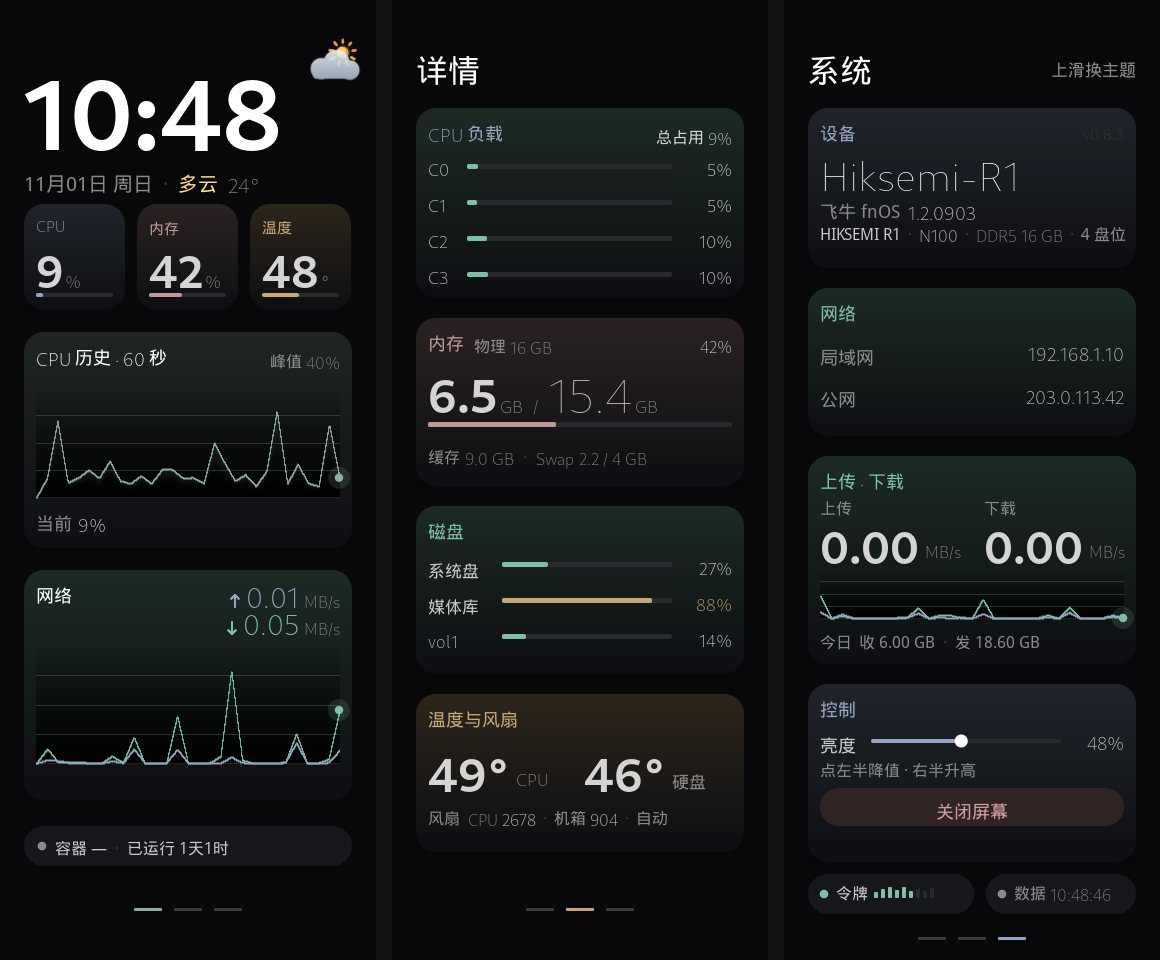
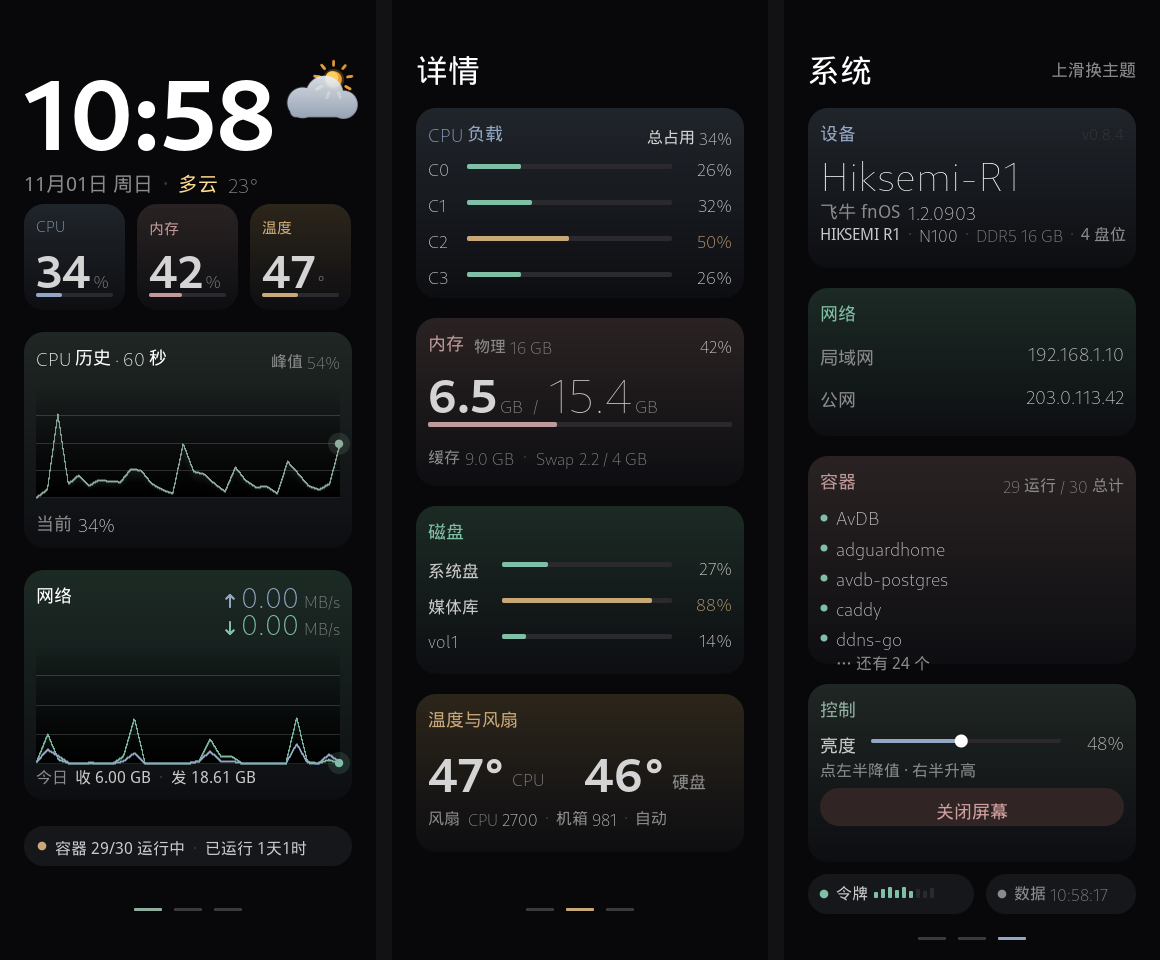
feat(ui): 系统页换容器卡，天气图标 r=46，三页配色不撞色
洋哥 2026-11-01 四条反馈。

- 系统页「上传·下载」卡与首页网络卡重复，删除；今日收发并入
  首页网络卡底部。腾出的 200px 换成「容器」卡：右上「N 运行 /
  M 总计」+ 运行中容器名列表（Docker API Names，排序、最多 5 个，
  超出报「… 还有 N 个」）。
- docker.go 扩展：取 Names 并排序进快照（不排序则 API 顺序不稳，
  屏幕每 60s 跳一次顺序像容器在重启）；快照深拷贝防 -race。
- 天气图标 r 32→46（直径 92）：100px 时钟占 x24..264，图标仅剩
  右侧 102px，直径上限约 100 —— 46 已接近硬上限。
- 配色：详情页 CPU mint→slate（原与磁盘撞色），四张变
  slate/rose/mint/sand；系统页控制 slate→sage。相邻与同页均不重复。
- README 已知限制补充：盘位数来自机型映射表（Linux 无通用接口），
  其余字段均为系统实读、读不到整项省略。

diff --git a/internal/ui/pages_m3.go b/internal/ui/pages_m3.go
@@ -215,11 +215,12 @@ func (p *EnvPage) Draw(c *Canvas, d *DrawCtx) {
 		DrawPartsTop(c, fs, DPadX, envDateY, FzDate, parts)
 
 		// 天气图标（右上，昼夜由 isNight 内部判断）。
-		// 2026-10-31 洋哥：图标放大 r 21→32。中心 (335,62)→(332,64)：
-		// 右沿 332+32=364 距屏右 12px、上沿 32、下沿 96 不压日期行（174）、
-		// 左沿不压时钟墨迹（"00:22" 右沿约 264）。构图全部按 r 比例缩放，
-		// 云掩码 s≈43 远小于上限 256（设计时就留的余量）。
-		DrawWeatherIcon(c, DPadX+DCardW-20, 64, 32, kind, 2.856)
+		// 2026-11-01 洋哥：还是太小 → r 32→46（面积 2 倍）。
+		// 位置受时钟制约：100px 的「10:48」占 x 24..264，图标只能用右侧
+		// x 270..372 这 102px，直径上限约 100px —— 46 已经接近这条硬上限。
+		// 中心 (318,96)：圆右沿 364、云体右沿约 368（距屏右 8px）、
+		// 上沿 50、下沿 142（日期行 174 之上），左沿 272 不压时钟。
+		DrawWeatherIcon(c, 318, 96, 46, kind, 2.856)
 	}
 
 	// ---------------- 三张指标小卡 ----------------
@@ -328,6 +329,16 @@ func (p *EnvPage) Draw(c *Canvas, d *DrawCtx) {
 		// （标题 601..618、上行 600..618），不是"标题一行、速率另起一行"。
 		drawRateRow(c, fs, DPadX+DCardW-DPad, envNetY+14, up, colSlate, true)
 		drawRateRow(c, fs, DPadX+DCardW-DPad, envNetY+41, dn, colMint, false)
+
+		// 今日累计收发：从系统页「上传·下载」卡搬来（洋哥 2026-11-01 ——
+		// 那张卡与这张讲的是同一件事，合并后系统页腾出一整张卡的位置）。
+		// 曲线底 796，卡底 826：这一行落在 798..814，正好卡在中间。
+		DrawPartsTop(c, fs, DPadX+DPad, envNetY+196, FzMeta, []TPart{
+			{S: "今日", Col: colDim},
+			{S: "收 " + fmtBytes(m.NetRxToday), Col: colSub, Gap: 7},
+			{S: "·", Col: colTab, Gap: 8},
+			{S: "发 " + fmtBytes(m.NetTxToday), Col: colSub, Gap: 8},
+		})
 	}
 
 	// ---------------- 底部药丸（容器 / 运行时长）----------------
@@ -415,7 +426,11 @@ func (p *DetailPage) Draw(c *Canvas, d *DrawCtx) {
 	// 首页只留「趋势」，每核分布这种细节归详情页：四行、条长 205px，
 	// 两个核差 10% 时长度差 20px，一眼可辨。
 	if c.ClipVisible(DPadX, dtCpuY, DCardW, dtCpuH) {
-		DCardBox(c, d, DPadX, dtCpuY, DCardW, dtCpuH, colMint)
+		// 卡色 slate（洋哥 2026-11-01：相邻卡片不能同色）。原来是 mint，
+		// 与第三张「磁盘」撞色 —— 虽然不相邻，但同页重复会让"每卡一色"
+		// 失去指代作用。改 slate 后四张全不同：slate/rose/mint/sand，
+		// 而且 CPU=slate 与环境页那张 CPU 小卡同色，语义更顺。
+		DCardBox(c, d, DPadX, dtCpuY, DCardW, dtCpuH, colSlate)
 		DCardTitle(c, fs, DPadX, dtCpuY+13, "CPU 负载", colSlate)
 		// 右上角原来是 load average（1m · 5m）—— 洋哥 2026-11-01 让删掉。
 		// 那个数对服务器有意义，但对墙上这块屏不直观：0.31 是好是坏，
@@ -625,7 +640,7 @@ func (p *SysPage) PageName() string { return "系统" }
 const (
 	syDevY, syDevH   = 112, 152
 	syNetY, syNetH   = 292, 140
-	sySpdY, sySpdH   = 460, 200
+	syCtrY, syCtrH   = 460, 200
 	syCtrlY, syCtrlH = 688, 170
 	syPillY          = 874
 )
@@ -638,7 +653,7 @@ func (p *SysPage) DataRects(d *DrawCtx) []Rect {
 	return []Rect{
 		{DPadX - 6, syDevY - 6, DCardW + 12, syDevH + 12},
 		{DPadX - 6, syNetY - 6, DCardW + 12, syNetH + 12},
-		{DPadX - 6, sySpdY - 6, DCardW + 12, sySpdH + 12},
+		{DPadX - 6, syCtrY - 6, DCardW + 12, syCtrH + 12},
 		{DPadX - 6, syCtrlY - 6, DCardW + 12, syCtrlH + 12},
 		{DPadX - 6, syPillY - 6, DCardW + 12, 40 + 12},
 	}
@@ -649,7 +664,7 @@ func (p *SysPage) CardRects() []Rect {
 	return []Rect{
 		{DPadX, syDevY, DCardW, syDevH},
 		{DPadX, syNetY, DCardW, syNetH},
-		{DPadX, sySpdY, DCardW, sySpdH},
+		{DPadX, syCtrY, DCardW, syCtrH},
 		{DPadX, syCtrlY, DCardW, syCtrlH},
 		{DPadX, syPillY, DCardW, 40},
 	}
@@ -785,63 +800,52 @@ func (p *SysPage) Draw(c *Canvas, d *DrawCtx) {
 			[]TPart{{S: fitText(fs, pub, FzCard, 200), Col: pubCol, Latin: true}})
 	}
 
-	// ---------------- 上传 · 下载 ----------------
-	if c.ClipVisible(DPadX, sySpdY, DCardW, sySpdH) {
-		DCardBox(c, d, DPadX, sySpdY, DCardW, sySpdH, colMint)
-		DCardTitle(c, fs, DPadX, sySpdY+13, "上传 · 下载", colMint)
-		up := clamp(d.Ease("sy.up", m.NetSendMBps), 0, 1e9)
-		dn := clamp(d.Ease("sy.dn", m.NetRecvMBps), 0, 1e9)
+	// ---------------- 容器 ----------------
+	// 2026-11-01 洋哥：原「上传·下载」卡与首页网络卡讲的是同一件事，删掉；
+	// 今日收发已并入首页网络卡。这里换成容器列表 —— NAS 屏上「服务还在跑吗」
+	// 是高频问题，环境页只给了一个数字药丸，这里给名字。
+	if c.ClipVisible(DPadX, syCtrY, DCardW, syCtrH) {
+		DCardBox(c, d, DPadX, syCtrY, DCardW, syCtrH, colRose)
+		DCardTitle(c, fs, DPadX, syCtrY+13, "容器", colRose)
 
-		// 两列：左 上传、右 下载，各占半卡
-		DrawPartsTop(c, fs, DPadX+DPad, sySpdY+41, FzMeta,
-			[]TPart{{S: "上传", Col: colDim}})
-		uw := DrawPartsTop(c, fs, DPadX+DPad, sySpdY+72, FzNum, []TPart{
-			{S: fmtMBps(up), Col: colData, Latin: true, Bold: true},
-		})
-		DrawPartsTop(c, fs, DPadX+DPad+uw+6, sySpdY+86, FzMeta,
-			[]TPart{{S: "MB/s", Col: colDim, Latin: true}})
-
-		DrawPartsTop(c, fs, DPadX+176, sySpdY+41, FzMeta,
-			[]TPart{{S: "下载", Col: colDim}})
-		dw := DrawPartsTop(c, fs, DPadX+176, sySpdY+72, FzNum, []TPart{
-			{S: fmtMBps(dn), Col: colData, Latin: true, Bold: true},
-		})
-		DrawPartsTop(c, fs, DPadX+176+dw+6, sySpdY+86, FzMeta,
-			[]TPart{{S: "MB/s", Col: colDim, Latin: true}})
-
-		send := make([]float64, 0, len(m.NetHistory))
-		recv := make([]float64, 0, len(m.NetHistory))
-		scale := 0.1
-		for _, v := range m.NetHistory {
-			send = append(send, v[0])
-			recv = append(recv, v[1])
-			if v[0] > scale {
-				scale = v[0]
+		names := m.Containers
+		if m.ContainersRunning < 0 {
+			DMetaR(c, fs, DPadX+DCardW, syCtrY+16, "未接入 Docker", colDim)
+			DrawPartsTop(c, fs, DPadX+DPad, syCtrY+56, FzCard,
+				[]TPart{{S: "读不到 /var/run/docker.sock", Col: colDim}})
+		} else {
+			DMetaR(c, fs, DPadX+DCardW, syCtrY+16,
+				fmt.Sprintf("%d 运行 / %d 总计", m.ContainersRunning, m.ContainersTotal),
+				colDim)
+			if len(names) == 0 {
+				DrawPartsTop(c, fs, DPadX+DPad, syCtrY+56, FzCard,
+					[]TPart{{S: "没有运行中的容器", Col: colDim}})
 			}
-			if v[1] > scale {
-				scale = v[1]
+			// 每行 30：52 / 82 / 112 / 142 / 172，第五行墨迹底 185，卡底 200。
+			// 超过 5 个只报剩余数量 —— 一屏列 20 个容器没人读。
+			const maxRows = 5
+			for i, n := range names {
+				if i >= maxRows {
+					break
+				}
+				yInk := syCtrY + 52 + i*30
+				c.FillCircle(float64(DPadX+DPad+4), float64(yInk+6), 3.5, colMint)
+				DrawPartsTop(c, fs, DPadX+DPad+16, yInk, FzCard,
+					[]TPart{{S: fitText(fs, n, FzCard, DCardW-2*DPad-16), Col: colSub, Latin: true}})
+			}
+			if len(names) > maxRows {
+				DrawPartsTop(c, fs, DPadX+DPad+16, syCtrY+52+maxRows*30-6, FzMeta,
+					[]TPart{{S: fmt.Sprintf("… 还有 %d 个", len(names)-maxRows), Col: colDim}})
 			}
 		}
-		scale *= 1.15
-		// 曲线框 577..626（h=50）：三条网格实测 589 / 602 / 614.5，等距 12.75。
-		// 上一版 h=46 时网格间距 11.5，三条线整体偏上 3px —— 网格间距=框高/4，
-		// 所以框高必须按"网格间距 × 4"反推，不能只看框顶。
-		c.PlotFloor(DPadX+DPad, sySpdY+109, DCardW-2*DPad, 50, colMint)
-		c.Graph(DPadX+DPad, sySpdY+109, DCardW-2*DPad, 50, recv, scale, 60, colMint, 0.12)
-		c.Curve(DPadX+DPad, sySpdY+109, DCardW-2*DPad, 50, send, scale, 60, colSlate, 1.5, 0)
-
-		DrawPartsTop(c, fs, DPadX+DPad, sySpdY+175, FzMeta, []TPart{
-			{S: "今日", Col: colDim},
-			{S: "收 " + fmtBytes(m.NetRxToday), Col: colDim, Gap: 7},
-			{S: "·", Col: colTab, Gap: 8},
-			{S: "发 " + fmtBytes(m.NetTxToday), Col: colDim, Gap: 8},
-		})
 	}
 
 	// ---------------- 控制（亮度滑杆 + 关屏按钮）----------------
 	if c.ClipVisible(DPadX, syCtrlY, DCardW, syCtrlH) {
-		DCardBox(c, d, DPadX, syCtrlY, DCardW, syCtrlH, colSlate)
-		DCardTitle(c, fs, DPadX, syCtrlY+13, "控制", colSlate)
+		// 卡色 sage：与「设备」的 slate 区分开（洋哥 2026-11-01：宁可交错，
+		// 也不要在同一页里让两张卡长成同一个颜色）。
+		DCardBox(c, d, DPadX, syCtrlY, DCardW, syCtrlH, colSage)
+		DCardTitle(c, fs, DPadX, syCtrlY+13, "控制", colSage)
 
 		// 亮度走 screen.Control：它是背光的唯一状态源，
 		// 直接读硬件会让"Web 已息屏"这件事在界面上不可见。

diff --git a/internal/monitor/docker.go b/internal/monitor/docker.go
@@ -5,6 +5,8 @@ import (
 	"encoding/json"
 	"net"
 	"net/http"
+	"sort"
+	"strings"
 	"time"
 
 	"r1-toolbox/internal/logx"
@@ -32,48 +34,60 @@ var dockerHTTPClient = &http.Client{
 	},
 }
 
-// UpdateContainers 刷新 Docker 容器计数。失败时置 -1（未知），不回退旧值。
+// UpdateContainers 刷新 Docker 容器计数与运行中的容器名。
+// 失败时置 -1（未知），不回退旧值。
 func (s *SystemMonitor) UpdateContainers() {
-	run, total := fetchContainerCounts()
+	run, total, names := fetchContainers()
 
 	s.mu.Lock()
 	s.ContainersRunning, s.ContainersTotal = run, total
+	s.Containers = names
 	s.mu.Unlock()
 }
 
-// fetchContainerCounts 返回 (-1,-1) 表示未知
-func fetchContainerCounts() (int, int) {
+// fetchContainers 返回 (-1,-1,nil) 表示未知
+func fetchContainers() (int, int, []string) {
 	ctx, cancel := context.WithTimeout(context.Background(), 3*time.Second)
 	defer cancel()
 
 	req, err := http.NewRequestWithContext(ctx, "GET", "http://docker/containers/json?all=1", nil)
 	if err != nil {
-		return -1, -1
+		return -1, -1, nil
 	}
 	resp, err := dockerHTTPClient.Do(req)
 	if err != nil {
 		logx.Debugf("[docker] 读取容器列表失败: %v", err)
-		return -1, -1
+		return -1, -1, nil
 	}
 	defer resp.Body.Close()
 	if resp.StatusCode != http.StatusOK {
 		logx.Debugf("[docker] 容器列表返回 %d", resp.StatusCode)
-		return -1, -1
+		return -1, -1, nil
 	}
 
+	// Names 是 ["/容器名"] 形式（带前导斜杠），State 是 running/exited/created…
 	type ctrInfo struct {
-		State string `json:"State"`
+		Names []string `json:"Names"`
+		State string   `json:"State"`
 	}
 	var ctrs []ctrInfo
 	if json.NewDecoder(resp.Body).Decode(&ctrs) != nil {
-		return -1, -1
+		return -1, -1, nil
 	}
 
 	running := 0
+	names := make([]string, 0, len(ctrs))
 	for _, c := range ctrs {
-		if c.State == "running" {
-			running++
+		if c.State != "running" {
+			continue
+		}
+		running++
+		if len(c.Names) > 0 {
+			names = append(names, strings.TrimPrefix(c.Names[0], "/"))
 		}
 	}
-	return running, len(ctrs)
+	// 名字排序后再上屏：Docker API 的顺序不保证稳定，屏幕每 60 秒跳一次
+	// 顺序会让人以为容器在重启。
+	sort.Strings(names)
+	return running, len(ctrs), names
 }

diff --git a/internal/monitor/system.go b/internal/monitor/system.go
@@ -88,6 +88,8 @@ type SystemMonitor struct {
 	// Docker 容器（UpdateContainers 每 60s 刷新；-1 = 未知/读不到）
 	ContainersRunning int
 	ContainersTotal   int
+	// Containers 运行中的容器名（已排序、无前导斜杠）；nil = 读不到 Docker
+	Containers []string
 
 	Disk *DiskMonitor
 
@@ -150,6 +152,7 @@ type Snapshot struct {
 
 	ContainersRunning int
 	ContainersTotal   int
+	Containers        []string
 
 	// Disk 是共享子监控，自身带锁；快照里保留指针即可。
 	Disk *DiskMonitor
@@ -204,6 +207,7 @@ func (s *SystemMonitor) Snapshot() Snapshot {
 
 		ContainersRunning: s.ContainersRunning,
 		ContainersTotal:   s.ContainersTotal,
+		Containers:        cloneStrings(s.Containers),
 
 		Disk:      s.Disk,
 		UpdatedAt: s.updatedAt,
@@ -224,6 +228,17 @@ func clonePairs(in [][2]float64) [][2]float64 {
 		return nil
 	}
 	out := make([][2]float64, len(in))
+	copy(out, in)
+	return out
+}
+
+// cloneStrings 与 cloneFloats 同理：快照不能与采样协程共享底层数组，
+// 否则下一次 UpdateContainers 排序时渲染正读到一半，-race 会报竞争。
+func cloneStrings(in []string) []string {
+	if len(in) == 0 {
+		return nil
+	}
+	out := make([]string, len(in))
 	copy(out, in)
 	return out
 }

diff --git a/README.md b/README.md
@@ -6,7 +6,7 @@
 
 ## 界面预览
 
-### v0.8.3 · Material You 三页版（当前）
+### v0.8.4 · Material You 三页版（当前）
 
 | 环境（主屏） | 详情 | 系统 |
 |:---:|:---:|:---:|
@@ -135,12 +135,14 @@ docker compose up -d screen   # privileged + /dev/fb0 + host 网络
 ## 已知限制
 
 - 侧边 RGB 灯条：上游代码保留了 RGB 模块，但在 R1 前屏硬件上**未发现系统级软件控制通路**（实测内核 LED / I2C / ACPI 均无接口），灯效可能由屏体 MCU 硬件自带
+- **设备卡的盘位数来自机型映射表**（当前仅 `HS-AFS-R1` → 4 盘位），不是硬件读数——Linux 没有暴露「盘位数」的通用接口，DMI 的 chassis 只报机箱类型。未映射的机型不显示该项。其余字段（机型名、CPU、内存类型与容量、fnOS 版本）**全部为系统实读**，读不到就整项省略，不填占位符
 - 本程序为非官方项目，与海康威视、飞牛官方均无关联；刷写/安装产生的风险自负
 
 ## 更新日志
 
 完整版本历史见 [CHANGELOG.md](CHANGELOG.md)(每个版本打 git tag 并发布 [Release](https://github.com/mingyangbest/r1-frontscreen/releases))。最近更新:
 
+- **v0.8.4 · 2026-11-01**:系统页「上传·下载」卡与首页网络卡重复，删除（今日收/发并入首页网络卡底部），换成**容器卡**（`29 运行 / 30 总计` + 容器名列表，名取自 Docker API）；天气图标再放大 r 32 → 46（直径 92，已接近时钟右侧的可用上限）；三页卡片配色重排，**相邻卡片不再同色**（详情 slate/rose/mint/sand，系统 slate/mint/rose/sage）
 - **v0.8.3 · 2026-11-01**:设备卡重做——一行写清「型号 · CPU · 内存类型容量 · 盘位数」（`HIKSEMI R1 · N100 · DDR5 16 GB · 4 盘位`，全部读自 DMI/SMBIOS 真值），程序版本号缩小调暗降为角标、完整版本打进启动日志；删掉详情页顶栏的「滑左翻页」提示；CPU 负载卡右上角的 load average 换成**总占用率**（与四根条直接呼应）
 - **v0.8.2 · 2026-10-31**:天气图标放大重配色——r 21 → 32（面积 2.3 倍），色板整体提饱和约 25%（太阳金更暖、雨更蓝、云更白，色相语义不变），太阳光芒 8 → 12 根、线宽随尺寸跟涨；预览工具加 `-wx` 参数可逐个验收 8 种图标
 - **v0.8.1 · 2026-10-31**:删掉每页顶部居中的小页名（「环境/详情/系统」——位置指示与底部三点页签完全重复）；省出的高度给卡间隙（20 → 28），详情/系统页最后一张卡的起点分毫不动；环境页大时钟上移 108 → 80、三个卡间隙顺手改齐为等距 30

diff --git a/CHANGELOG.md b/CHANGELOG.md
@@ -13,6 +13,39 @@
 
 基于上游 [lemon6515/r1-toolbox-go](https://github.com/lemon6515/r1-toolbox-go) 增强 fork。
 
+## [v0.8.4] - 2026-11-01
+
+系统页换卡、天气图标再放大、三页配色重排（2026-11-01 洋哥四条反馈）。
+
+### 变更
+
+- **系统页「上传·下载」卡删除**。它与首页的「网络」卡讲的是同一件事
+  （同一份 `NetHistory`、同一个采样），放在两页上是重复占位。
+  - **今日收/发并入首页网络卡底部**（`今日 收 6.00 GB · 发 18.61 GB`），
+    曲线区不动，行落在曲线底与卡底之间的空隙里。
+  - 腾出的 200px 换成**「容器」卡**：右上 `29 运行 / 30 总计`，
+    下面是运行中的容器名列表（Docker API 的 `Names`，排序后最多 5 个，
+    超出显示「… 还有 N 个」）。NAS 屏上「服务还在跑吗」是高频问题，
+    环境页只给了一个数字药丸，这里给名字。
+- **天气图标 r 32 → 46**（直径 92，面积 2 倍）。位置受时钟制约：
+  100px 的「10:48」占 x 24..264，图标只能用右侧 102px，直径上限约 100px，
+  46 已接近这条硬上限。中心 (318,96)：圆右沿 364、云体右沿约 368
+  （距屏右 8px）、上沿 50、下沿 142（日期行 174 之上）。
+- **三页卡片配色重排，相邻不再同色**：
+  - 详情页 CPU 卡 mint → **slate**（原来与第三张「磁盘」撞色），
+    四张变成 slate / rose / mint / sand，与环境页小卡的语义也对上了；
+  - 系统页控制卡 slate → **sage**，与「设备」区分；
+  - 系统页四张：slate（设备）/ mint（网络）/ rose（容器）/ sage（控制）。
+- `docker.go` 的容器读取扩展：原来只数 `State`，现在同时取 `Names`
+  （去掉前导斜杠、排序后进快照并深拷贝 —— 不排序的话 Docker API 返回顺序
+  不稳，屏幕每 60 秒跳一次顺序，看着像容器在重启）。
+
+### 文档
+
+- README「已知限制」补一条：**设备卡的盘位数来自机型映射表**
+  （仅 `HS-AFS-R1` → 4 盘位），Linux 没有暴露盘位数的通用接口；
+  其余字段全部为系统实读，读不到整项省略。
+
 ## [v0.8.3] - 2026-11-01
 
 系统页「设备」卡重做 + 两处顶栏/卡片信息精简（2026-11-01 洋哥反馈）。
